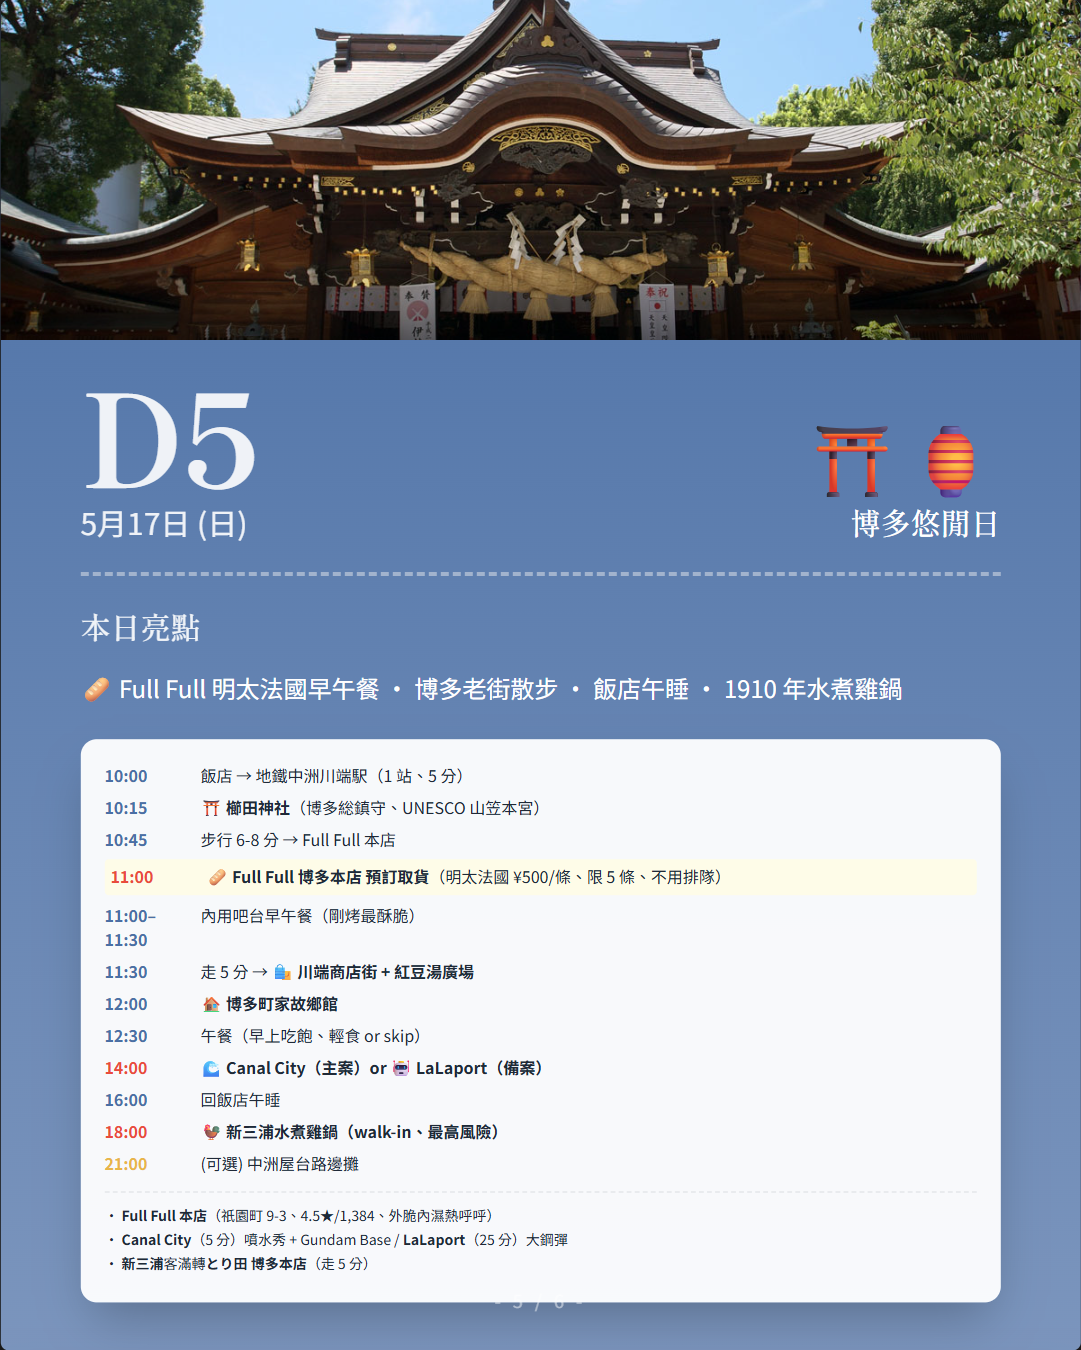
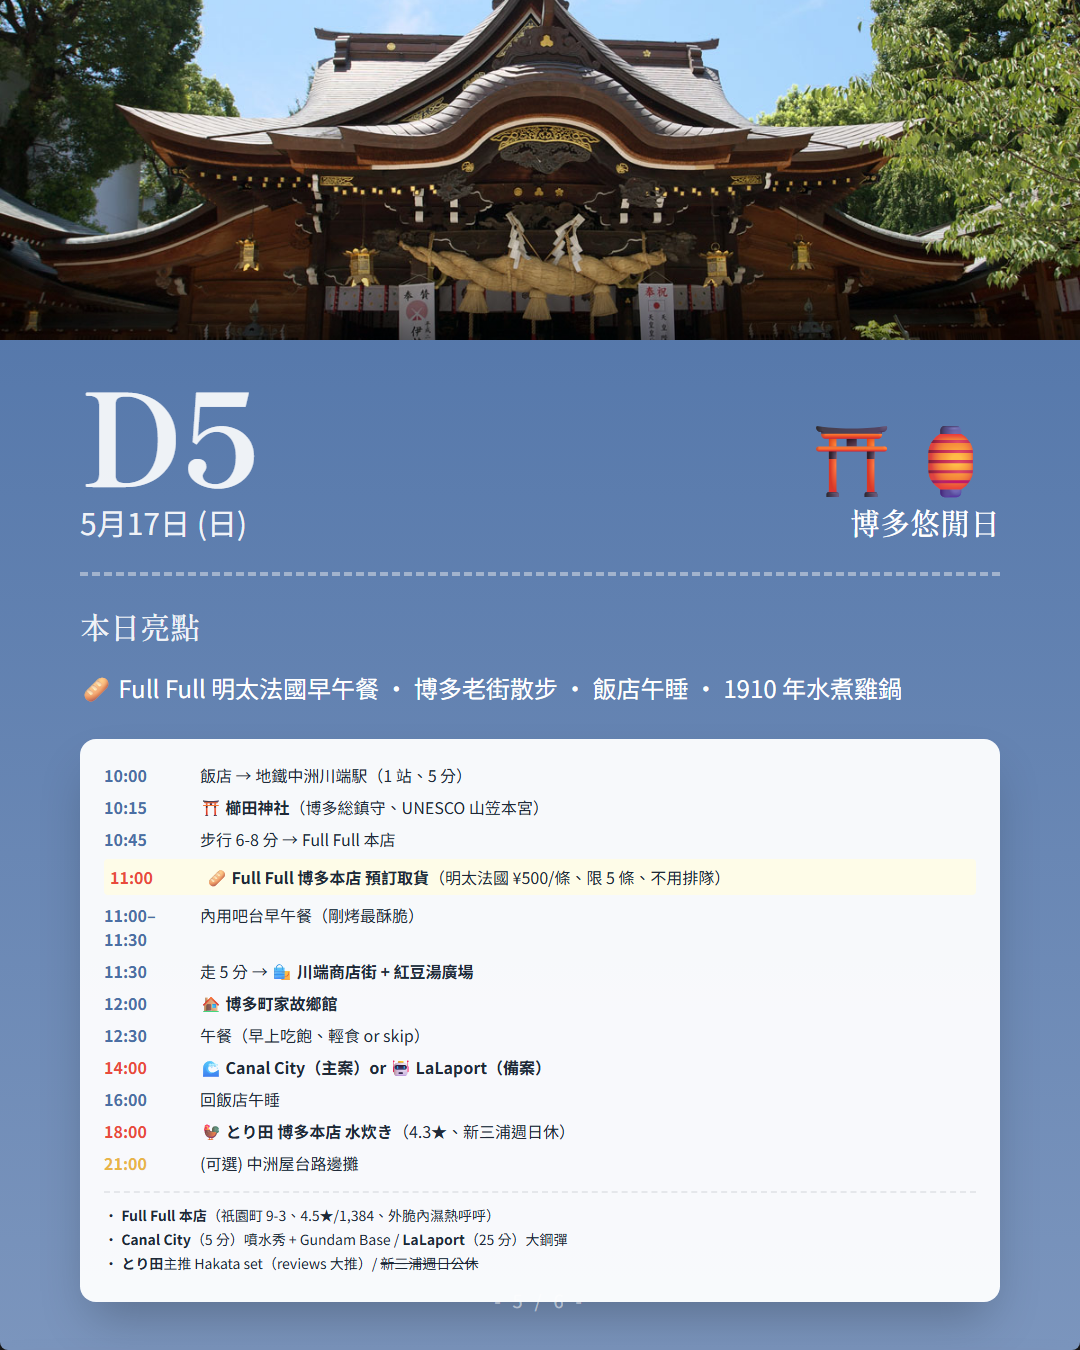
D5 dinner 換 とり田主案 (新三浦週日休) + appendix 加餐廳推薦菜單

diff --git a/index.html b/index.html
@@ -220,6 +220,74 @@
     color: #E8B547; text-decoration: none; font-size: 14px;
     padding: 10px 20px; border: 1px solid rgba(232,181,71,.4); border-radius: 999px;
   }
+  .appendix-divider {
+    height: 1px; background: rgba(255,255,255,.1);
+    margin: 40px 0 24px;
+  }
+
+  /* === Restaurant cards (with menu recommendations) === */
+  .rest-card {
+    background: rgba(255,255,255,.06);
+    border: 1px solid rgba(255,255,255,.12);
+    border-radius: 12px;
+    padding: 14px 16px;
+    margin-bottom: 12px;
+  }
+  .rest-card.rest-disabled {
+    background: rgba(255,255,255,.02);
+    border-color: rgba(255,80,80,.2);
+  }
+  a.rest-name {
+    display: block;
+    font-weight: 700;
+    font-size: 15.5px;
+    color: #fff;
+    text-decoration: none;
+    margin-bottom: 4px;
+    line-height: 1.4;
+  }
+  a.rest-name:active, a.rest-name:hover {
+    color: #E8B547;
+  }
+  .rest-rating {
+    display: inline-block;
+    font-size: 12px;
+    font-weight: 500;
+    background: rgba(232,181,71,.18);
+    color: #E8B547;
+    padding: 2px 8px;
+    border-radius: 999px;
+    margin-left: 4px;
+    vertical-align: middle;
+  }
+  .rest-meta {
+    font-size: 12px;
+    opacity: .65;
+    margin-bottom: 8px;
+    line-height: 1.4;
+  }
+  .rest-menu {
+    background: rgba(232,181,71,.08);
+    border-left: 3px solid rgba(232,181,71,.5);
+    padding: 8px 10px;
+    border-radius: 6px;
+    font-size: 13px;
+    margin-bottom: 8px;
+  }
+  .rest-menu b { color: #E8B547; }
+  .rest-menu span {
+    display: block;
+    margin: 4px 0;
+    padding-left: 6px;
+    font-size: 12.5px;
+    line-height: 1.5;
+  }
+  .rest-tip {
+    font-size: 12px;
+    opacity: .7;
+    line-height: 1.5;
+    padding-left: 4px;
+  }
 </style>
 </head>
 <body>
@@ -373,6 +441,244 @@
         <div class="t-route">🛫 Mars Garden → 福岡空港國際線</div>
         <div class="t-meta">徒步 5 分 + 地鐵 5 分到國內線 + 接駁巴士 10 分・¥260/人</div>
       </a>
+    </div>
+
+    <div class="appendix-divider"></div>
+
+    <h1 style="margin-top:40px;">🍽 餐廳推薦菜單（讓長輩快速點）</h1>
+    <p class="appendix-sub">每家餐廳列 Google reviews 真實心得萃取的招牌菜・點擊餐廳名開 Maps</p>
+
+    <!-- D1 walk-in -->
+    <div class="day-block" style="border-color:#5B8DBF;">
+      <h2 style="color:#5B8DBF;">🛬 D1 5/13 三 晚餐 walk-in 三選一（博多駅內）</h2>
+      <div class="rest-card">
+        <a class="rest-name" target="_blank" href="https://www.google.com/maps/place/?q=place_id:ChIJw8CTf8eRQTURWPqyJLmyxkc">
+          🍜 一蘭 博多駅 Sun Plaza B2F <span class="rest-rating">4.2★/3,128</span>
+        </a>
+        <div class="rest-meta">每日 8:00-22:00・博多駅徒步 1 分・¥1,000-1,500/人</div>
+        <div class="rest-menu">
+          <b>👍 推薦點</b>：
+          <span>經典豚骨拉麵（可選麵硬度/湯濃度/辣度）</span>
+          <span>替玉（追加麵條 ¥200）</span>
+          <span>半熟玉子</span>
+        </div>
+        <div class="rest-tip">💡 個人座位、雨樂可吃白飯、英文菜單機器點餐</div>
+      </div>
+      <div class="rest-card">
+        <a class="rest-name" target="_blank" href="https://www.google.com/maps/place/?q=place_id:ChIJSeHzhsiRQTURY0hKFL0M6x0">
+          🍲 大山もつ鍋 KITTE 博多 9F <span class="rest-rating">4.7★/5,095</span>
+        </a>
+        <div class="rest-meta">每日 11:00-23:00・KITTE 博多 9F・¥3,000-4,500/人</div>
+        <div class="rest-menu">
+          <b>👍 推薦點</b>：
+          <span>🥇 <b>味噌底もつ鍋</b>（招牌、reviews 大推）</span>
+          <span>馬刺身（生馬肉刺、福岡名物）</span>
+          <span>明太子</span>
+          <span>champon 麵收尾</span>
+        </div>
+        <div class="rest-tip">💡 包廂、有兒童菜單、無障礙、評論 5,000+ 則 — D1 首選</div>
+      </div>
+      <div class="rest-card">
+        <a class="rest-name" target="_blank" href="https://www.google.com/maps/search/?api=1&query=博多デイトス+ほろよい通り">
+          🍶 博多デイトス ほろよい通り B1F <span class="rest-rating">walk-in</span>
+        </a>
+        <div class="rest-meta">小料理街、串燒/餃子/海鮮多家・博多駅 B1F</div>
+        <div class="rest-tip">💡 6 人想嘗各式名物可分頭逛、不確定就直接挑人多的進</div>
+      </div>
+    </div>
+
+    <!-- D2 streetfood -->
+    <div class="day-block" style="border-color:#E8829A;">
+      <h2 style="color:#E8829A;">⛩ D2 5/14 四 太宰府參道 Streetfood 4 家</h2>
+      <div class="rest-card">
+        <a class="rest-name" target="_blank" href="https://www.google.com/maps/place/?q=place_id:ChIJOx5yfqKbQTURstb62Ds0fLY">
+          🍡 安武（梅ヶ枝餅） <span class="rest-rating">4.3★/783</span>
+        </a>
+        <div class="rest-meta">每日 8:30-18:00・¥180/個</div>
+        <div class="rest-menu">
+          <b>👍 推薦點</b>：
+          <span>🥇 <b>剛烤梅ヶ枝餅</b>（外脆內 Q、紅豆餡偏甜、現吃最佳）</span>
+          <span>每人 1-2 個就 OK</span>
+        </div>
+      </div>
+      <div class="rest-card">
+        <a class="rest-name" target="_blank" href="https://www.google.com/maps/place/?q=place_id:ChIJKeyrYqKbQTUR-n6Bd-ct0xU">
+          🍓 天山（草莓大福） <span class="rest-rating">4.3★/481</span>
+        </a>
+        <div class="rest-meta">每日 10:00-17:00・¥600-800/個</div>
+        <div class="rest-menu">
+          <b>👍 推薦點</b>：
+          <span>🥇 <b>あまおう草莓大福</b>（招牌、整顆大草莓 + 紅豆餡）</span>
+          <span>草莓最中（外脆 monaka 餅皮 + 草莓白豆餡）</span>
+          <span>葛粉冰棒（不易融化、邊走邊吃）</span>
+        </div>
+        <div class="rest-tip">💡 站著吃、有時排 5 分、5 月草莓季尾聲必嘗</div>
+      </div>
+      <div class="rest-card">
+        <a class="rest-name" target="_blank" href="https://www.google.com/maps/place/?q=place_id:ChIJ9_hY_KKbQTURifWd7-CjkV8">
+          🍙 福太郎 太宰府店（明太子烤飯糰） <span class="rest-rating">4★/347</span>
+        </a>
+        <div class="rest-meta">每日 9:00-17:00・太宰府駅前</div>
+        <div class="rest-menu">
+          <b>👍 推薦點</b>：
+          <span>🥇 <b>紫蘇明太子烤飯糰</b>（reviews 推、有紫蘇香）</span>
+          <span>明太子飯糰（原味）</span>
+          <span>明太子伴手禮（順便買）</span>
+        </div>
+        <div class="rest-tip">💡 點完拿號碼牌、約 10-15 分等現烤</div>
+      </div>
+      <div class="rest-card">
+        <a class="rest-name" target="_blank" href="https://www.google.com/maps/place/?q=place_id:ChIJGwPM-v-bQTUR3D1iiX3MP6g">
+          🥖 YAMAYA BASE（明太法國） <span class="rest-rating">4.4★/269</span>
+        </a>
+        <div class="rest-meta">每日 9:30-17:30・太宰府駅前・takeout only</div>
+        <div class="rest-menu">
+          <b>👍 推薦點</b>：
+          <span>🥇 <b>明太法國麵包</b>（剛烤的、外脆內軟、明太子 paste 不過鹹）</span>
+        </div>
+        <div class="rest-tip">💡 沒座位站著吃、6 人共食 1-2 條剛剛好</div>
+      </div>
+    </div>
+
+    <!-- D3 -->
+    <div class="day-block" style="border-color:#7CA982;">
+      <h2 style="color:#7CA982;">🚣 D3 5/15 五 柳川 + 久留米</h2>
+      <div class="rest-card">
+        <a class="rest-name" target="_blank" href="https://www.google.com/maps/place/?q=place_id:ChIJ76hWFK9MQDUR6xlGweilGn8">
+          🍱 元祖 本吉屋 沖端店（lunch 主案） <span class="rest-rating">4.1★/581</span>
+        </a>
+        <div class="rest-meta">週三-日 11:00-15:00・週一二休・川下り終點旁</div>
+        <div class="rest-menu">
+          <b>👍 推薦點</b>：
+          <span>🥇 <b>せいろ蒸し</b>（蒸籠鰻飯、5 片裝、reviews 大推）</span>
+          <span>鰻肝湯（きもすい）</span>
+          <span>親子丼（reviewer 帶女兒推、雨樂可吃）</span>
+        </div>
+        <div class="rest-tip">⚠ 全 tatami 座、需脫鞋、不收信用卡（現金 only）、6 人 walk-in 12:10 衝早</div>
+      </div>
+      <div class="rest-card">
+        <a class="rest-name" target="_blank" href="https://www.google.com/maps/place/?q=place_id:ChIJ_R5gM99NQDURZI5n5Ege7hc">
+          🍱 若松屋（lunch 備案） <span class="rest-rating">4.4★/3,599</span>
+        </a>
+        <div class="rest-meta">週三休、其他 11:00-14:30+17:00-20:00・有日式庭園</div>
+        <div class="rest-menu">
+          <b>👍 推薦點</b>：
+          <span>🥇 <b>せいろ蒸し定食</b>（招牌、米飯有鰻醬味、reviewer 稱「日本旅行最好的一餐」）</span>
+          <span>鰻魚蛋捲（うざく、egg roll with eel）</span>
+          <span>鰻骨煎餅（脆口下酒）</span>
+          <span>上 seiromushi 套餐含鰻肝湯 + 漬物</span>
+        </div>
+        <div class="rest-tip">💡 評分 + 評論數比本吉屋高、有信用卡、有日式庭園 view、tatami 座</div>
+      </div>
+      <div class="rest-card">
+        <a class="rest-name" target="_blank" href="https://www.google.com/maps/place/?q=place_id:ChIJ4TShAMqRQTUR4x7gedijGb4">
+          🥩 燒肉 Hayato 隼人 博多駅前（dinner 主案） <span class="rest-rating">4.7★/2,494</span>
+        </a>
+        <div class="rest-meta">17:00-23:00・週四公休・5/15 週五 ✅・博多駅徒步 5 分</div>
+        <div class="rest-menu">
+          <b>👍 推薦點</b>：
+          <span>🥇 <b>和牛拼盤（beef platter）</b>（reviews 多次推、適合 6 人分）</span>
+          <span>🥈 牛舌（tongue）</span>
+          <span>🥉 短肋骨（skirt steak / short ribs）</span>
+          <span>石鍋拌飯（bibimbap）填飽</span>
+          <span>洋蔥（甜醬燒、貴但驚喜）</span>
+        </div>
+        <div class="rest-tip">⚠ 必點 1 飲料/人、portion 較小、18:00 開店即進（4.7★/2,494 排隊熱門）</div>
+      </div>
+      <div class="rest-card">
+        <a class="rest-name" target="_blank" href="https://www.google.com/maps/place/?q=place_id:ChIJK2p0rg70QDURsVZqL3h14cc">
+          🥩 須藤 春吉店 Sudou Haruyoshi（dinner 備案） <span class="rest-rating">4.4★/541</span>
+        </a>
+        <div class="rest-meta">每日 12:00-22:00・春吉 3-11-19・PRICE_LEVEL_EXPENSIVE</div>
+        <div class="rest-menu">
+          <b>👍 推薦點</b>：
+          <span>🥇 <b>和牛全餐 course</b>（廚師代煎、不用自烤、長輩友善）</span>
+          <span>炭火烤和牛（reviews 推、油花漂亮）</span>
+          <span>沙拉 + 茶碗蒸 + 甜點完整</span>
+        </div>
+        <div class="rest-tip">💡 替換原本 plan 列錯的「醍醐」、廚師代煎適合長輩、有預約 + 信用卡</div>
+      </div>
+    </div>
+
+    <!-- D4 -->
+    <div class="day-block" style="border-color:#C68A00;">
+      <h2 style="color:#C68A00;">🌊 D4 5/16 六 dinner（已預約）</h2>
+      <div class="rest-card">
+        <a class="rest-name" target="_blank" href="https://www.google.com/maps/place/?q=place_id:ChIJ7dW6MJGRQTURINejS0AA2vo">
+          🍲 博多もつ鍋 山中 博多店 <span class="rest-rating">4.4★/581</span>
+        </a>
+        <div class="rest-meta">每日 11:30-14:00+16:00-23:00・博多駅東 2-4-6 2F・✅ 已預約 19:00</div>
+        <div class="rest-menu">
+          <b>👍 推薦點</b>：
+          <span>🥇 <b>味噌底もつ鍋</b>（招牌、reviews 多次稱「最好吃的もつ鍋」）</span>
+          <span>自家製明太子（reviews 提）</span>
+          <span>燉牛頰肉（beef cheek、超嫩）</span>
+          <span>champon 麵或粥收尾（雜炊、要加蛋）</span>
+        </div>
+        <div class="rest-tip">💡 土耳其風內裝精緻、有兒童菜單、無障礙、湯可續</div>
+      </div>
+    </div>
+
+    <!-- D5 -->
+    <div class="day-block" style="border-color:#4A6FA5;">
+      <h2 style="color:#4A6FA5;">⛩ D5 5/17 日 lunch + dinner</h2>
+      <div class="rest-card">
+        <a class="rest-name" target="_blank" href="https://www.google.com/maps/place/?q=place_id:ChIJCcxq-X2RQTUR71LKO935dyg">
+          🥖 Full Full 博多本店（lunch、預訂取貨） <span class="rest-rating">4.5★/1,385</span>
+        </a>
+        <div class="rest-meta">週一三-日 10:00-19:00・週二休・5/17 週日 ✅・✅ 預訂 RES2413</div>
+        <div class="rest-menu">
+          <b>👍 推薦點</b>：
+          <span>🥇 <b>明太法國麵包</b>（招牌、現烤外脆內軟、reviews 一致大推）</span>
+          <span>🥈 <b>Bacon Gouda 麵包</b>（reviews 大推「partner 搶著吃」）</span>
+          <span>🥉 <b>牛奶法國</b>（milk France、紅奶蓋、reviews 推 condensed milk cream）</span>
+          <span>抹茶白巧克力 cone</span>
+          <span>松露 melon pan（栗子瑪卡）</span>
+        </div>
+        <div class="rest-tip">⚠ Reviews 不推：鹽麵包（無味）/ 一些瑪卡類麵包不夠 wow</div>
+      </div>
+      <div class="rest-card">
+        <a class="rest-name" target="_blank" href="https://www.google.com/maps/place/?q=place_id:ChIJs0-UX-uRQTURkYi-DvhX3S0">
+          🐓 とり田 博多本店（dinner 主案、新主推） <span class="rest-rating">4.3★/1,781</span>
+        </a>
+        <div class="rest-meta">每日 11:30-23:00・5/17 週日 ✅・下川端町 10-5・線上可預約</div>
+        <div class="rest-menu">
+          <b>👍 推薦點</b>：
+          <span>🥇 <b>Hakata set 博多套餐</b>（reviews 多次強調 — 含前菜→水炊き→雜炊→甜點）</span>
+          <span>🥈 雞翅 course（tebasaki）</span>
+          <span>🥉 雪酪甜點（granité、清爽收尾）</span>
+          <span>雞肉沾 ponzu 橘醋醬油（最對味）</span>
+          <span>雜炊 + 雞蛋（湯收尾必加）</span>
+        </div>
+        <div class="rest-tip">💡 現代化木質空間、不用脫鞋、長輩友善、6 hr 燉雞湯 reviews 一致大推 / 建議線上先預約</div>
+      </div>
+      <div class="rest-card rest-disabled">
+        <div class="rest-name" style="color:#888;">
+          ❌ 新三浦 博多本店（已換 — 週日公休）
+        </div>
+        <div class="rest-meta">週一-六 12:00-15:00+18:00-22:00・<b>週日 Closed</b></div>
+        <div class="rest-tip">⚠ 5/17 週日撲空、改 とり田 為主案</div>
+      </div>
+    </div>
+
+    <!-- D6 -->
+    <div class="day-block" style="border-color:#6B7B8C;">
+      <h2 style="color:#6B7B8C;">🛫 D6 5/18 一 lunch（已預約）</h2>
+      <div class="rest-card">
+        <a class="rest-name" target="_blank" href="https://www.google.com/maps/place/?q=place_id:ChIJI4rGZ7eRQTURxQyOsE-HC5k">
+          🥩 WITH THE STYLE Steak House Medium Rare <span class="rest-rating">4.5★/533</span>
+        </a>
+        <div class="rest-meta">每日 11:30-14:30+17:30-20:30・博多駅筑紫口徒步 7 分・✅ 已預約 IR0533835889</div>
+        <div class="rest-menu">
+          <b>👍 推薦點</b>（已選 Style Lunch ¥3,800）：
+          <span>🥇 <b>大蒜炒飯（garlic rice）</b>（reviews 多次稱「the highlight」）</span>
+          <span>🥈 鐵板和牛 fillet（坐在板前看師傅煎）</span>
+          <span>🥉 和牛壽司（seared、reviews 推「thrilling」）</span>
+          <span>季節烤蔬菜（鮮度高）</span>
+          <span>宮崎芒果 + 椰子雪酪（甜點、5 月旺季）</span>
+        </div>
+        <div class="rest-tip">💡 板前座位、師傅單一服務、有兒童菜單、英文菜單、無障礙</div>
+      </div>
     </div>
 
     <div class="appendix-footer">
